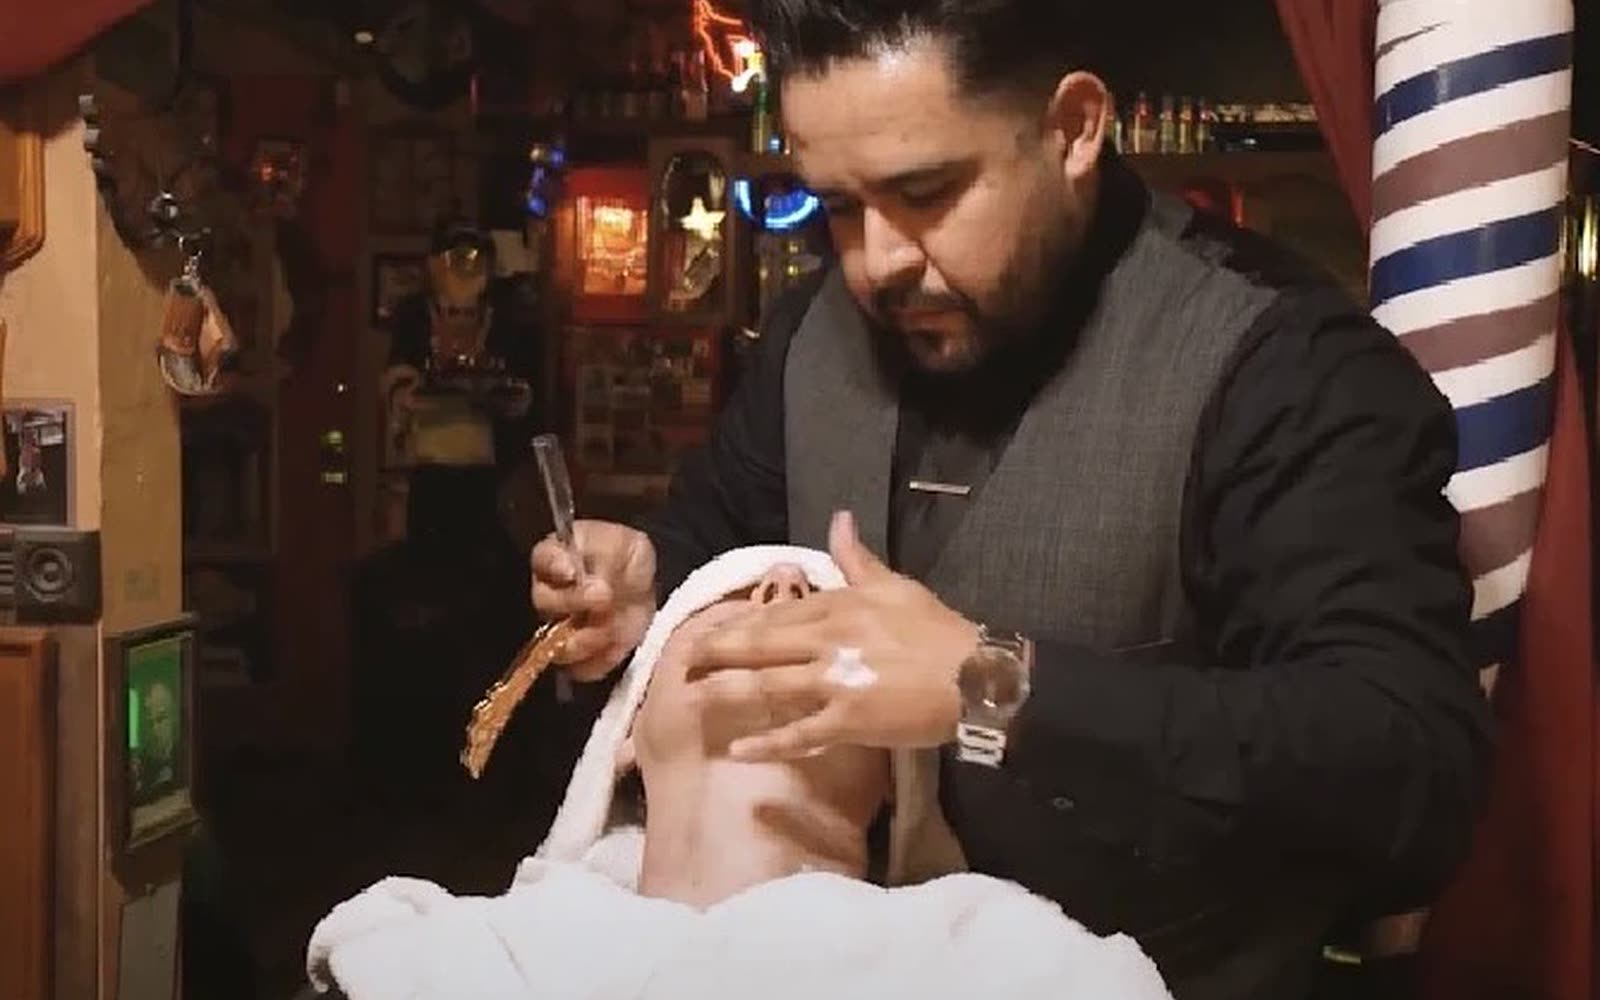
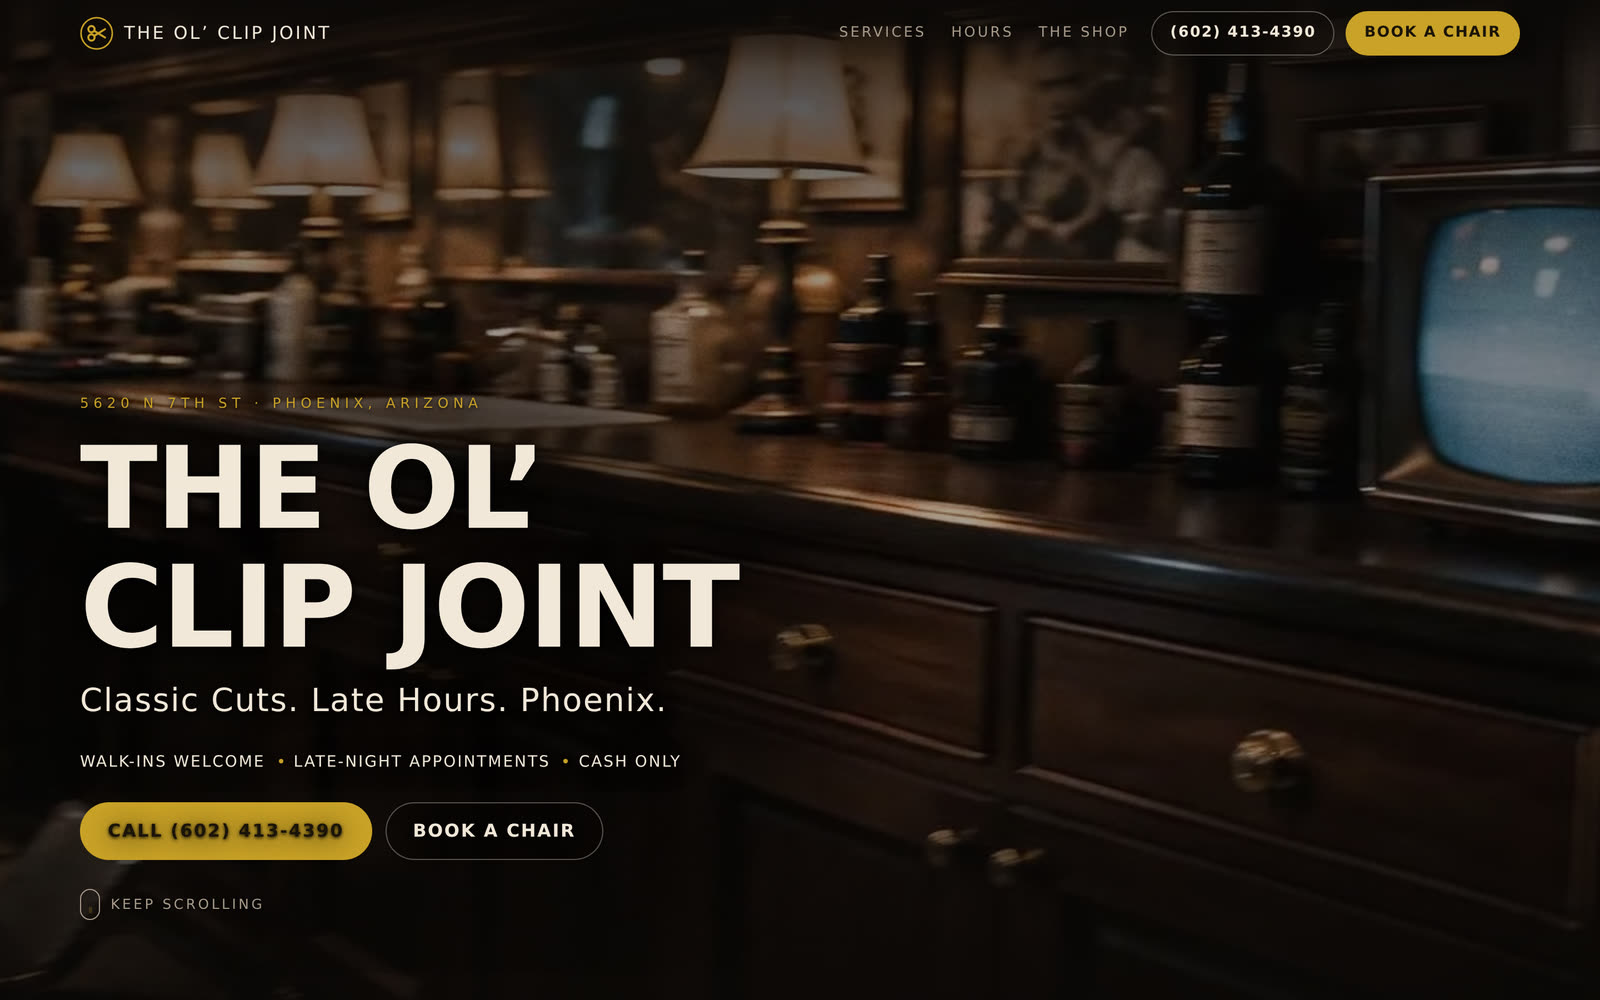
Show the real sites: portfolio imagery is now live screenshots
Confirmed I had read the right branches — claude/ol-clip-joint-appointments-qkr1n1
and claude/quik-burrito-website-y8jtv1 — then went further and ran all three
projects to photograph the actual interfaces rather than their subjects.

- Phở Thành and The Ol' Clip Joint served as static sites
- Quik Burrito installed and production-built (Next.js 15 / React 19), then
  served, so the cinematic homepage renders as it does for a visitor

Covers are now each site's own hero: Quik Burrito's "Big Flavor. Made Quik."
with Order Online in the first frame, Phở Thành's suspended bowl over the hours
and menu links, and the Clip Joint's shop counter under "Classic Cuts. Late
Hours. Phoenix." Case-study figures follow the same rule — the Clip Joint's
three booking routes are shown as the site actually presents them, and Phở
Thành's mid-scroll frame shows the bowl coming apart.

Running the sites also settled details that were inference before: the Clip
Joint is walk-ins welcome, cash only, open till 11:30 every night; Quik Burrito
is Mexican food built to order out of Anthem. Both corrected in the copy.

Noted in CONTENT.md: the Quik Burrito repo ships one real food photo, so its
other image slots render blur placeholders and that shows in the screenshot.

Ten pages audit clean, every reveal firing, 482 KB over 8 requests.

Claude-Session: https://claude.ai/code/session_01Bd43KcnyPj2JGV6NFNyW36

diff --git a/work/quik-burrito.html b/work/quik-burrito.html
@@ -99,7 +99,7 @@
       </div>
     </div>
     <div class="case-hero__frame" data-reveal="mask">
-      <img src="../assets/img/work/quik-burrito-cover.jpg" alt="Birria tacos pulled apart over consommé, from the Quik Burrito site"
+      <img src="../assets/img/work/quik-burrito-cover.jpg" alt="The Quik Burrito homepage — Big Flavor. Made Quik. — with Order Online in the first frame"
            width="1600" height="1000" decoding="async" fetchpriority="high">
     </div>
     <dl class="case-meta" data-stagger="80"><div><dt>Client</dt><dd>Quik Burrito</dd></div><div><dt>Sector</dt><dd>Restaurant</dd></div><div><dt>Scope</dt><dd>Website, menu, locations, reviews</dd></div><div><dt>Year</dt><dd>2026</dd></div></dl>
@@ -115,7 +115,7 @@
   </div>
   <div class="chapter__body">
     <h3 data-reveal>A burrito shop in Anthem, Arizona.</h3>
-    <div data-reveal style="--d:100ms"><p class="body-copy">Quik Burrito sells food that photographs extraordinarily well and, like most independent restaurants, was competing for attention against delivery apps whose entire business is being one tap away.</p></div>
+    <div data-reveal style="--d:100ms"><p class="body-copy">Quik Burrito sells Mexican food built to order and wrapped fast, out of Anthem, Arizona. Like most independent restaurants it was competing for attention against delivery apps whose entire business is being one tap away.</p></div>
   </div>
 </section>
 <section class="chapter">
@@ -128,9 +128,9 @@
   </div>
 </section>
 <figure class="figure" data-reveal>
-  <img src="../assets/img/work/quik-burrito-brand.jpg" alt="The mark, carried through every page"
-       loading="lazy" decoding="async" width="1200" height="750">
-  <figcaption>The mark, carried through every page</figcaption>
+  <img src="../assets/img/work/quik-burrito-menu.jpg" alt="The menu section, mid-scroll"
+       loading="lazy" decoding="async" width="1400" height="875">
+  <figcaption>The menu section, mid-scroll</figcaption>
 </figure>
 <section class="chapter">
   <div class="chapter__label">
@@ -153,6 +153,11 @@
     <div data-reveal style="--d:100ms"><p class="body-copy">Everything beneath the homepage &mdash; menu, locations, reviews &mdash; is deliberately fast and plain, and usable on a phone with one hand. The cinema earns attention; the utility pages spend it.</p><p class="body-copy">Locations are individually addressable, so a search for the nearest branch lands on a real page rather than a map pin buried in a single contact page.</p></div>
   </div>
 </section>
+<figure class="figure" data-reveal>
+  <img src="../assets/img/work/quik-burrito-brand.jpg" alt="The mark, carried through every page"
+       loading="lazy" decoding="async" width="1200" height="750">
+  <figcaption>The mark, carried through every page</figcaption>
+</figure>
 <section class="chapter">
   <div class="chapter__label">
     <p class="eyebrow"><span class="idx">05</span> The build</p>

diff --git a/work/ol-clip-joint.html b/work/ol-clip-joint.html
@@ -99,7 +99,7 @@
       </div>
     </div>
     <div class="case-hero__frame" data-reveal="mask">
-      <img src="../assets/img/work/ol-clip-joint-cover.jpg" alt="A hot-towel shave in progress at The Ol' Clip Joint in Phoenix"
+      <img src="../assets/img/work/ol-clip-joint-cover.jpg" alt="The Ol' Clip Joint homepage — Classic Cuts. Late Hours. Phoenix. — over the shop counter"
            width="1600" height="1000" decoding="async" fetchpriority="high">
     </div>
     <dl class="case-meta" data-stagger="80"><div><dt>Client</dt><dd>The Ol&rsquo; Clip Joint</dd></div><div><dt>Sector</dt><dd>Barbershop</dd></div><div><dt>Scope</dt><dd>Website &amp; appointment line</dd></div><div><dt>Year</dt><dd>2026</dd></div></dl>
@@ -115,7 +115,7 @@
   </div>
   <div class="chapter__body">
     <h3 data-reveal>Classic cuts, late hours.</h3>
-    <div data-reveal style="--d:100ms"><p class="body-copy">The Ol&rsquo; Clip Joint sits at 5620 N 7th Street in Phoenix, and Matt runs the chair. Late hours are part of the offer, which means the booking questions arrive at all hours too.</p></div>
+    <div data-reveal style="--d:100ms"><p class="body-copy">The Ol&rsquo; Clip Joint sits at 5620 N 7th Street in Phoenix, and Matt runs the chair. Classic cuts, walk-ins welcome, cash only, and open till 11:30 every night of the week &mdash; which means the booking questions arrive at all hours too.</p></div>
   </div>
 </section>
 <section class="chapter">
@@ -128,9 +128,9 @@
   </div>
 </section>
 <figure class="figure" data-reveal>
-  <img src="../assets/img/work/ol-clip-joint-detail.jpg" alt="Classic cuts, late hours"
-       loading="lazy" decoding="async" width="1200" height="671">
-  <figcaption>Classic cuts, late hours</figcaption>
+  <img src="../assets/img/work/ol-clip-joint-book.jpg" alt="Three ways onto the book — call, text, or request online"
+       loading="lazy" decoding="async" width="1400" height="875">
+  <figcaption>Three ways onto the book — call, text, or request online</figcaption>
 </figure>
 <section class="chapter">
   <div class="chapter__label">
@@ -154,9 +154,9 @@
   </div>
 </section>
 <figure class="figure" data-reveal>
-  <img src="../assets/img/work/ol-clip-joint-film.jpg" alt="The shop, shot on location"
-       loading="lazy" decoding="async" width="1200" height="675">
-  <figcaption>The shop, shot on location</figcaption>
+  <img src="../assets/img/work/ol-clip-joint-detail.jpg" alt="Classic cuts, late hours"
+       loading="lazy" decoding="async" width="1200" height="671">
+  <figcaption>Classic cuts, late hours</figcaption>
 </figure>
 <section class="chapter">
   <div class="chapter__label">

diff --git a/index.html b/index.html
@@ -290,7 +290,7 @@
      aria-label="Quik Burrito — view case study">
     <div class="work-item__frame">
       <img class="work-item__media" src="assets/img/work/quik-burrito-cover.jpg"
-           alt="Birria tacos pulled apart over consommé, from the Quik Burrito site" loading="lazy" decoding="async" width="1600" height="1000">
+           alt="The Quik Burrito homepage — Big Flavor. Made Quik. — with Order Online in the first frame" loading="lazy" decoding="async" width="1600" height="1000">
     </div>
     <div class="work-item__head">
       <div>
@@ -308,7 +308,7 @@
      aria-label="Ph&#7903; Th&agrave;nh — view case study">
     <div class="work-item__frame">
       <img class="work-item__media" src="assets/img/work/pho-thanh-cover.jpg"
-           alt="A bowl of phở suspended mid-air, beef and garnishes lifting away from the broth" loading="lazy" decoding="async" width="1600" height="1000">
+           alt="The Phở Thành homepage, the bowl suspended mid-air above the hours and menu links" loading="lazy" decoding="async" width="1600" height="1000">
     </div>
     <div class="work-item__head">
       <div>
@@ -325,7 +325,7 @@
      aria-label="The Ol&rsquo; Clip Joint — view case study">
     <div class="work-item__frame">
       <img class="work-item__media" src="assets/img/work/ol-clip-joint-cover.jpg"
-           alt="A hot-towel shave in progress at The Ol' Clip Joint in Phoenix" loading="lazy" decoding="async" width="1600" height="1000">
+           alt="The Ol' Clip Joint homepage — Classic Cuts. Late Hours. Phoenix. — over the shop counter" loading="lazy" decoding="async" width="1600" height="1000">
     </div>
     <div class="work-item__head">
       <div>

diff --git a/work.html b/work.html
@@ -120,7 +120,7 @@
      aria-label="Quik Burrito — view case study">
     <div class="work-item__frame">
       <img class="work-item__media" src="assets/img/work/quik-burrito-cover.jpg"
-           alt="Birria tacos pulled apart over consommé, from the Quik Burrito site" loading="lazy" decoding="async" width="1600" height="1000">
+           alt="The Quik Burrito homepage — Big Flavor. Made Quik. — with Order Online in the first frame" loading="lazy" decoding="async" width="1600" height="1000">
     </div>
     <div class="work-item__head">
       <div>
@@ -137,7 +137,7 @@
      aria-label="Ph&#7903; Th&agrave;nh — view case study">
     <div class="work-item__frame">
       <img class="work-item__media" src="assets/img/work/pho-thanh-cover.jpg"
-           alt="A bowl of phở suspended mid-air, beef and garnishes lifting away from the broth" loading="lazy" decoding="async" width="1600" height="1000">
+           alt="The Phở Thành homepage, the bowl suspended mid-air above the hours and menu links" loading="lazy" decoding="async" width="1600" height="1000">
     </div>
     <div class="work-item__head">
       <div>
@@ -153,7 +153,7 @@
      aria-label="The Ol&rsquo; Clip Joint — view case study">
     <div class="work-item__frame">
       <img class="work-item__media" src="assets/img/work/ol-clip-joint-cover.jpg"
-           alt="A hot-towel shave in progress at The Ol' Clip Joint in Phoenix" loading="lazy" decoding="async" width="1600" height="1000">
+           alt="The Ol' Clip Joint homepage — Classic Cuts. Late Hours. Phoenix. — over the shop counter" loading="lazy" decoding="async" width="1600" height="1000">
     </div>
     <div class="work-item__head">
       <div>

diff --git a/work/pho-thanh.html b/work/pho-thanh.html
@@ -99,7 +99,7 @@
       </div>
     </div>
     <div class="case-hero__frame" data-reveal="mask">
-      <img src="../assets/img/work/pho-thanh-cover.jpg" alt="A bowl of phở suspended mid-air, beef and garnishes lifting away from the broth"
+      <img src="../assets/img/work/pho-thanh-cover.jpg" alt="The Phở Thành homepage, the bowl suspended mid-air above the hours and menu links"
            width="1600" height="1000" decoding="async" fetchpriority="high">
     </div>
     <dl class="case-meta" data-stagger="80"><div><dt>Client</dt><dd>Ph&#7903; Th&agrave;nh</dd></div><div><dt>Sector</dt><dd>Vietnamese restaurant</dd></div><div><dt>Scope</dt><dd>Single-page site, full menu system</dd></div><div><dt>Year</dt><dd>2026</dd></div></dl>
@@ -127,6 +127,11 @@
     <div data-reveal style="--d:100ms"><p class="body-copy">The default for a restaurant with this much menu is a scanned PDF that nobody can read on a phone. The challenge was to make the size of the menu feel like abundance rather than homework &mdash; and to do it without a photo library, because there was exactly one usable photograph.</p></div>
   </div>
 </section>
+<figure class="figure" data-reveal>
+  <img src="../assets/img/work/pho-thanh-scene.jpg" alt="Mid-scroll: the bowl coming apart"
+       loading="lazy" decoding="async" width="1400" height="875">
+  <figcaption>Mid-scroll: the bowl coming apart</figcaption>
+</figure>
 <section class="chapter">
   <div class="chapter__label">
     <p class="eyebrow"><span class="idx">03</span> The strategy</p>

diff --git a/tools/content.py b/tools/content.py
@@ -43,7 +43,7 @@ PROJECTS = [
                    "scroll-scrubbed journey through the food, the kitchen and the people, "
                    "ending on the order button.",
         "img": "quik-burrito-cover.jpg",
-        "alt": "Birria tacos pulled apart over consommé, from the Quik Burrito site",
+        "alt": "The Quik Burrito homepage — Big Flavor. Made Quik. — with Order Online in the first frame",
     },
     {
         "slug": "pho-thanh",
@@ -56,7 +56,7 @@ PROJECTS = [
                    "so that scrolling takes the bowl apart and puts the whole menu within "
                    "reach underneath it.",
         "img": "pho-thanh-cover.jpg",
-        "alt": "A bowl of ph\u1edf suspended mid-air, beef and garnishes lifting away from the broth",
+        "alt": "The Ph\u1edf Th\u00e0nh homepage, the bowl suspended mid-air above the hours and menu links",
     },
     {
         "slug": "ol-clip-joint",
@@ -69,7 +69,7 @@ PROJECTS = [
                    "until the barber says so. Nothing on the site can put a client in the "
                    "chair on its own.",
         "img": "ol-clip-joint-cover.jpg",
-        "alt": "A hot-towel shave in progress at The Ol' Clip Joint in Phoenix",
+        "alt": "The Ol' Clip Joint homepage — Classic Cuts. Late Hours. Phoenix. — over the shop counter",
     },
 ]
 
@@ -1109,13 +1109,16 @@ CASES = {
             ("Scope", "Website, menu, locations, reviews"),
             ("Year", "2026"),
         ],
-        "figures": {1: ("quik-burrito-brand.jpg", "The mark, carried through every page", 1200, 750)},
+        "figures": {
+            1: ("quik-burrito-menu.jpg", "The menu section, mid-scroll", 1400, 875),
+            3: ("quik-burrito-brand.jpg", "The mark, carried through every page", 1200, 750),
+        },
         "chapters": [
             ("The client",
              "A burrito shop in Anthem, Arizona.",
-             ["Quik Burrito sells food that photographs extraordinarily well and, like most "
-              "independent restaurants, was competing for attention against delivery apps "
-              "whose entire business is being one tap away."]),
+             ["Quik Burrito sells Mexican food built to order and wrapped fast, out of "
+              "Anthem, Arizona. Like most independent restaurants it was competing for "
+              "attention against delivery apps whose entire business is being one tap away."]),
             ("The brief",
              "One job, stated plainly.",
              ["The site has a single job: make somebody hungry, then get them to order "
@@ -1161,7 +1164,7 @@ CASES = {
             ("Scope", "Single-page site, full menu system"),
             ("Year", "2026"),
         ],
-        "figures": {},
+        "figures": {1: ("pho-thanh-scene.jpg", "Mid-scroll: the bowl coming apart", 1400, 875)},
         "chapters": [
             ("The client",
              "A family restaurant on West Camelback.",
@@ -1223,15 +1226,16 @@ CASES = {
             ("Year", "2026"),
         ],
         "figures": {
-            1: ("ol-clip-joint-detail.jpg", "Classic cuts, late hours", 1200, 671),
-            3: ("ol-clip-joint-film.jpg", "The shop, shot on location", 1200, 675),
+            1: ("ol-clip-joint-book.jpg", "Three ways onto the book \u2014 call, text, or request online", 1400, 875),
+            3: ("ol-clip-joint-detail.jpg", "Classic cuts, late hours", 1200, 671),
         },
         "chapters": [
             ("The client",
              "Classic cuts, late hours.",
              ["The Ol&rsquo; Clip Joint sits at 5620 N 7th Street in Phoenix, and Matt runs "
-              "the chair. Late hours are part of the offer, which means the booking "
-              "questions arrive at all hours too."]),
+              "the chair. Classic cuts, walk-ins welcome, cash only, and open till 11:30 "
+              "every night of the week &mdash; which means the booking questions arrive at "
+              "all hours too."]),
             ("The challenge",
              "Booking software books people. Barbers decide.",
              ["Off-the-shelf booking tools will happily put a stranger in the chair at 9 PM "
